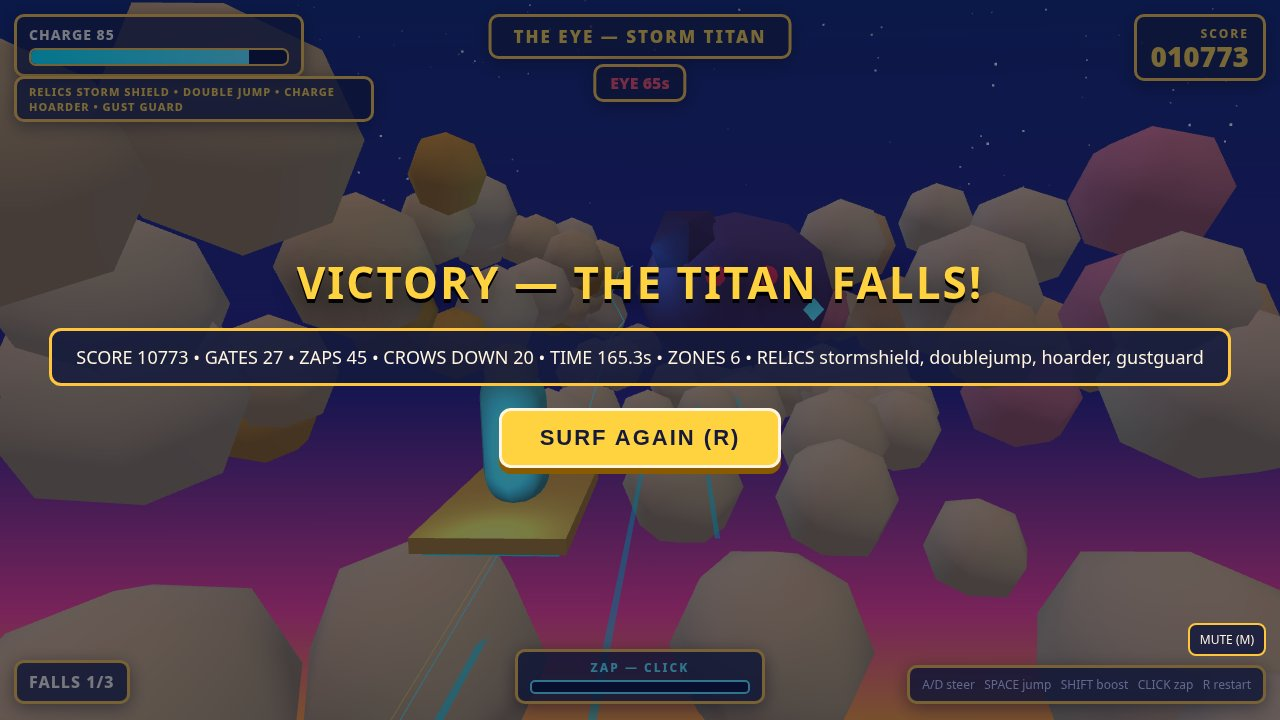
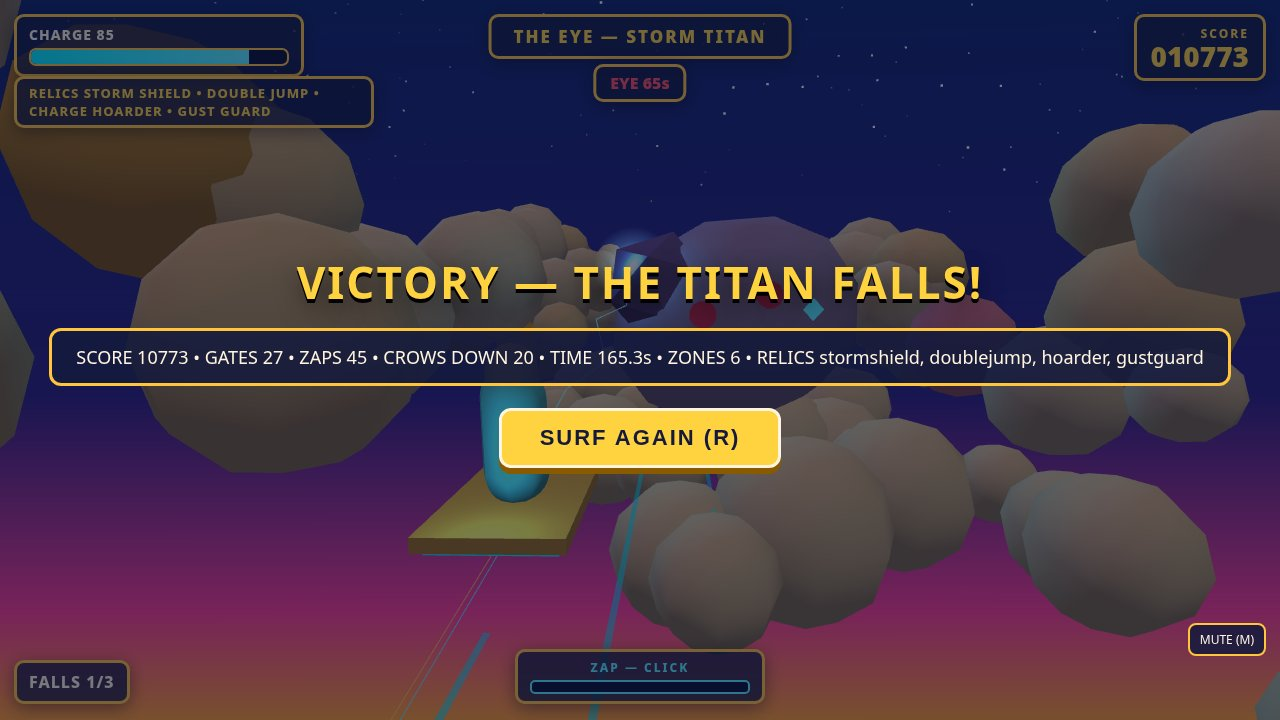
THUNDERHEAD RUN fix round 2: cloud palette, whale fluke, defeated Titan, title scrim, boss legibility, zap bloom (GLM + Superbot + Qwen)
- Cover whale un-clipped (x -2.4); boss sweep telegraph moved to x=3.5, off the relics strip
- Title controls line uses LEFT/RIGHT (no arrow glyphs); title scrim 0.72 -> 0.40, rules panel stays opaque
- Clouds bulk white/cream, gold/pink accents only, segments (8,6); whale fluke forked in the screen plane
- Victory Titan: brightened + scaled 1.3x, dull-red eyes, tilt 0.3, sunk, slow bob
- Sweep telegraph floor 0.34-0.50 + bright edge; relic strip 13px; controls-hint hidden in The Eye
- Zap impact flash sprite + brighter arc; contrast pass (ambient 0.55, key 1.0, cyan rim light)
- sim.js untouched (md5 e9b2e1fc...); dossier e1965e79..., 632,582 B, byte-identical twice

diff --git a/game/src/render.js b/game/src/render.js
@@ -15,7 +15,7 @@ function emissive(color, intensity) {
   return new THREE.MeshBasicMaterial({ color });
 }
 
-// 3-stop sunset gradient for the sky: sapphire zenith -> indigo ->
+// 4-stop sunset gradient for the sky: sapphire zenith -> indigo ->
 // magenta/amber horizon. A canvas texture fills the screen as the background.
 function skyGradientTexture() {
   const cv = document.createElement('canvas');
@@ -45,8 +45,9 @@ export function createRenderer(canvas) {
   camera.position.set(0, 3.4, 7.5);
 
   // Lights: soft warm key from above + cool fill + warm pink fill so the
-  // clouds read as sunset clouds, not faceted rock.
-  const key = new THREE.DirectionalLight(0xfff2cc, 0.9);
+  // clouds read as sunset clouds, not faceted rock. Ambient is kept low
+  // (0.55) so the key models the puffs instead of washing them flat.
+  const key = new THREE.DirectionalLight(0xfff2cc, 1.0);
   key.position.set(4, 16, 8);
   scene.add(key);
   const fill = new THREE.DirectionalLight(0x5ef2ff, 0.5);
@@ -55,7 +56,11 @@ export function createRenderer(canvas) {
   const pinkFill = new THREE.DirectionalLight(0xff9ecf, 0.6);
   pinkFill.position.set(-6, 8, -2);
   scene.add(pinkFill);
-  scene.add(new THREE.AmbientLight(0xffe9c8, 0.85));
+  // Cyan rim/back light: edges the whale, rider and Titan against the sky.
+  const rim = new THREE.DirectionalLight(0x00e5ff, 0.7);
+  rim.position.set(-6, 8, -14);
+  scene.add(rim);
+  scene.add(new THREE.AmbientLight(0xffe9c8, 0.55));
   const boardLight = new THREE.PointLight(0x9fefff, 5, 12);
   boardLight.position.set(0, 1.5, 1);
   scene.add(boardLight);
@@ -72,7 +77,7 @@ export function createRenderer(canvas) {
   // Canyon walls: instanced smooth cloud puffs on both sides, scrolling.
   // (Spheres, not faceted polyhedra: a detail-0 icosahedron has one normal
   // per face, so even smooth shading reads as chunked rock.)
-  const blobGeo = new THREE.SphereGeometry(1, 6, 4);
+  const blobGeo = new THREE.SphereGeometry(1, 8, 6);
   const blobMat = lambert(0xfff5e0);
   const blobCount = 70;
   const blobs = new THREE.InstancedMesh(blobGeo, blobMat, blobCount);
@@ -80,7 +85,9 @@ export function createRenderer(canvas) {
   scene.add(blobs);
   const blobData = [];
   const tint = new THREE.Color();
-  const palette = [0xfff5e0, 0xfff5e0, 0xffe9b8, 0xffd9a0, 0xffc53d, 0xff9ecf];
+  // Cloud palette: the bulk is white/cream so the canyon reads as cloud,
+  // not khaki rock — gold and pink appear as accents only (2 of 8).
+  const palette = [0xfff5e0, 0xfff5e0, 0xfff5e0, 0xfff8ec, 0xffe9b8, 0xffe9b8, 0xffc53d, 0xff9ecf];
   for (let i = 0; i < blobCount; i++) {
     const side = i % 2 === 0 ? -1 : 1;
     blobData.push({
@@ -152,11 +159,22 @@ export function createRenderer(canvas) {
   scene.add(trailGold);
 
   // Lightning sweep warning plane + strike bolt.
-  const warnMat = new THREE.MeshBasicMaterial({ color: 0xff4d5e, transparent: true, opacity: 0.25, side: THREE.DoubleSide });
+  const warnMat = new THREE.MeshBasicMaterial({ color: 0xff4d5e, transparent: true, opacity: 0.42, side: THREE.DoubleSide });
   const warn = new THREE.Mesh(new THREE.PlaneGeometry(3, 14), warnMat);
   warn.position.set(0, 4, -10);
   warn.visible = false;
   scene.add(warn);
+  // Bright edge around the telegraph so it reads on the magenta sky even
+  // at the dim end of its pulse.
+  const warnEdgePts = [
+    new THREE.Vector3(-1.5, -7, 0), new THREE.Vector3(1.5, -7, 0),
+    new THREE.Vector3(1.5, 7, 0), new THREE.Vector3(-1.5, 7, 0),
+  ];
+  const warnEdgeGeo = new THREE.BufferGeometry().setFromPoints(warnEdgePts);
+  const warnEdge = new THREE.LineLoop(warnEdgeGeo, new THREE.LineBasicMaterial({ color: 0xff8a96 }));
+  warnEdge.position.set(0, 4, -9.95);
+  warnEdge.visible = false;
+  scene.add(warnEdge);
   const boltGeo = new THREE.BufferGeometry();
   boltGeo.setAttribute('position', new THREE.BufferAttribute(new Float32Array(9 * 3), 3));
   const bolt = new THREE.Line(boltGeo, new THREE.LineBasicMaterial({ color: 0xffffff }));
@@ -167,17 +185,35 @@ export function createRenderer(canvas) {
   // Zap arc: jagged line from the board to the zap point.
   const zapGeo = new THREE.BufferGeometry();
   zapGeo.setAttribute('position', new THREE.BufferAttribute(new Float32Array(7 * 3), 3));
-  const zapLine = new THREE.Line(zapGeo, new THREE.LineBasicMaterial({ color: 0x5ef2ff }));
+  const zapLine = new THREE.Line(zapGeo, new THREE.LineBasicMaterial({ color: 0x8ef4ff }));
   zapLine.visible = false;
   zapLine.frustumCulled = false;
   scene.add(zapLine);
   const zapLight = new THREE.PointLight(0x5ef2ff, 0, 25);
   scene.add(zapLight);
+  // Flash sprite at the zap impact point: a single thin line is easy to
+  // miss, so the strike blooms where it lands.
+  const flashCv = document.createElement('canvas');
+  flashCv.width = 128;
+  flashCv.height = 128;
+  const fg = flashCv.getContext('2d');
+  const fgr = fg.createRadialGradient(64, 64, 2, 64, 64, 64);
+  fgr.addColorStop(0, 'rgba(255,255,255,1)');
+  fgr.addColorStop(0.25, 'rgba(160,240,255,0.9)');
+  fgr.addColorStop(0.6, 'rgba(94,242,255,0.35)');
+  fgr.addColorStop(1, 'rgba(94,242,255,0)');
+  fg.fillStyle = fgr;
+  fg.fillRect(0, 0, 128, 128);
+  const flashTex = new THREE.CanvasTexture(flashCv);
+  const zapFlash = new THREE.Sprite(new THREE.SpriteMaterial({ map: flashTex, color: 0xffffff, transparent: true, blending: THREE.AdditiveBlending, depthWrite: false }));
+  zapFlash.scale.setScalar(4);
+  zapFlash.visible = false;
+  scene.add(zapFlash);
 
   const world = {
     renderer, scene, camera, blobs, blobData, floorBlobs, floorData, rails,
     player, board, rider, trail, trailGeo, trailPoints, trailGold, trailGoldGeo,
-    warn, bolt, zapLine, zapLight, boardLight, dummy, tint,
+    warn, warnEdge, bolt, zapLine, zapLight, zapFlash, boardLight, dummy, tint,
     meshes: new Map(), titan: null, time: 0, shake: 0,
   };
   return world;
@@ -238,6 +274,18 @@ function whaleMesh() {
   tail.rotation.z = -Math.PI / 2;
   tail.position.x = 2.8;
   g.add(tail);
+  // Fluke: two flattened lobes splayed up/down at the tail tip, so the
+  // tail reads as a forked fin from the chase camera (before: a bare cone,
+  // and from behind-top the whale was just a pale capsule). The lobes
+  // spread in the screen plane — a sideways (z) splay is foreshortened
+  // to nothing from this camera.
+  for (const s of [-1, 1]) {
+    const fluke = new THREE.Mesh(new THREE.ConeGeometry(0.5, 1.2, 4), lambert(0xfff5e0));
+    fluke.rotation.z = -Math.PI / 2 + s * 0.7; // apex points back, tilted up/down
+    fluke.scale.set(1, 1, 0.3); // flattened toward the camera
+    fluke.position.set(3.6, s * 0.45, 0);
+    g.add(fluke);
+  }
   const eye = new THREE.Mesh(new THREE.SphereGeometry(0.12, 8, 6), new THREE.MeshBasicMaterial({ color: 0x0a1030 }));
   eye.position.set(-1.6, 0.3, 0.55);
   g.add(eye);
@@ -272,6 +320,9 @@ function titanMesh() {
   const eyeR = eyeL.clone();
   eyeR.position.x = 1.2;
   g.add(eyeL, eyeR);
+  g.userData.main = main;
+  g.userData.brow = brow;
+  g.userData.eyes = [eyeL, eyeR];
   g.userData.weak = [];
   for (let i = 0; i < 3; i++) {
     const w = new THREE.Mesh(new THREE.SphereGeometry(1.0, 12, 10), new THREE.MeshBasicMaterial({ color: 0xffd23f }));
@@ -390,8 +441,24 @@ export function renderFrame(world, state, dt, camPitch) {
       world.scene.add(world.titan);
     }
     const b = state.boss;
-    world.titan.position.y = 3.5 + Math.sin(t * 0.8) * 0.5;
-    world.titan.rotation.y = Math.sin(t * 0.25) * 0.3;
+    if (state.won) {
+      // Defeated Titan: slumped, sunk, slow — it has fallen, not merely
+      // stopped. Body brightened and scaled up so the silhouette reads
+      // around the end overlay (it sits dead-center behind the title);
+      // eyes dimmed to a dull red (still glowing, but going out).
+      world.titan.position.y = 2.0 + Math.sin(t * 0.3) * 0.15;
+      world.titan.rotation.y = Math.sin(t * 0.1) * 0.1;
+      world.titan.rotation.z = 0.3;
+      world.titan.scale.setScalar(1.3);
+      world.titan.userData.main.material.color.setHex(0xb39ddb);
+      world.titan.userData.brow.material.color.setHex(0x7a5fb0);
+      for (const e of world.titan.userData.eyes) e.material.color.setHex(0xb02030);
+    } else {
+      world.titan.position.y = 3.5 + Math.sin(t * 0.8) * 0.5;
+      world.titan.rotation.y = Math.sin(t * 0.25) * 0.3;
+      world.titan.rotation.z = 0;
+      world.titan.scale.setScalar(1);
+    }
     b.weak.forEach((w, i) => {
       const wm = world.titan.userData.weak[i];
       if (w.dead) { wm.visible = false; return; }
@@ -404,10 +471,13 @@ export function renderFrame(world, state, dt, camPitch) {
     if (b.sweepState === 'warn') {
       world.warn.visible = true;
       world.warn.position.set(b.sweepX, 4, -10);
-      world.warn.material.opacity = 0.2 + Math.sin(t * 20) * 0.12;
+      world.warn.material.opacity = 0.42 + Math.sin(t * 20) * 0.08;
+      world.warnEdge.visible = true;
+      world.warnEdge.position.set(b.sweepX, 4, -9.95);
       world.bolt.visible = false;
     } else if (b.sweepState === 'strike') {
       world.warn.visible = false;
+      world.warnEdge.visible = false;
       world.bolt.visible = true;
       const bp = world.bolt.geometry.attributes.position.array;
       let bx = b.sweepX;
@@ -422,12 +492,14 @@ export function renderFrame(world, state, dt, camPitch) {
       world.bolt.geometry.attributes.position.needsUpdate = true;
     } else {
       world.warn.visible = false;
+      world.warnEdge.visible = false;
       world.bolt.visible = false;
     }
   } else if (world.titan) {
     world.scene.remove(world.titan);
     world.titan = null;
     world.warn.visible = false;
+    world.warnEdge.visible = false;
     world.bolt.visible = false;
   }
 
@@ -447,8 +519,12 @@ export function renderFrame(world, state, dt, camPitch) {
     world.zapLine.geometry.attributes.position.needsUpdate = true;
     world.zapLight.position.set(zx, zy, zz + 4);
     world.zapLight.intensity = 30;
+    world.zapFlash.visible = true;
+    world.zapFlash.position.set(zx, zy, zz);
+    world.zapFlash.scale.setScalar(3.5 + Math.sin(t * 30) * 0.8);
   } else {
     world.zapLine.visible = false;
+    world.zapFlash.visible = false;
     world.zapLight.intensity = 0;
   }
 

diff --git a/game/index.html b/game/index.html
@@ -26,11 +26,11 @@
   #falls-text { position: absolute; bottom: 16px; left: 14px; padding: 8px 12px; font-weight: 800; letter-spacing: 1px; }
   #controls-hint { position: absolute; bottom: 16px; right: 14px; padding: 8px 12px; font-size: 12px; color: #c9d2ff; }
   #event-text { position: absolute; top: 110px; left: 50%; transform: translateX(-50%); font-weight: 900; font-size: 22px; color: #ffd23f; text-shadow: 0 2px 8px #000; transition: opacity 0.3s; white-space: nowrap; }
-  #relic-strip { position: absolute; top: 76px; left: 14px; max-width: 330px; padding: 5px 12px; font-size: 11px; font-weight: 800; letter-spacing: 1px; color: #ffd23f; display: none; }
+  #relic-strip { position: absolute; top: 76px; left: 14px; max-width: 330px; padding: 5px 12px; font-size: 13px; font-weight: 800; letter-spacing: 1px; color: #ffd23f; display: none; }
   #cover-wordmark { position: fixed; top: 64px; left: 50%; transform: translateX(-50%); text-align: center; display: none; z-index: 4; pointer-events: none; }
   #cover-wordmark .wm-title { font-size: 48px; font-weight: 900; letter-spacing: 4px; color: #ffd23f; text-shadow: 0 3px 0 #141a3d, 0 0 18px rgba(0,0,0,0.85); white-space: nowrap; }
   #cover-wordmark .wm-sub { font-size: 18px; font-weight: 800; letter-spacing: 4px; color: #5ef2ff; text-shadow: 0 2px 6px #000; margin-top: 2px; }
-  .overlay { position: fixed; inset: 0; display: flex; flex-direction: column; align-items: center; justify-content: center; background: rgba(10, 16, 48, 0.72); color: #fff5e0; text-align: center; z-index: 5; }
+  .overlay { position: fixed; inset: 0; display: flex; flex-direction: column; align-items: center; justify-content: center; background: rgba(10, 16, 48, 0.40); color: #fff5e0; text-align: center; z-index: 5; }
   .overlay h1 { font-size: 64px; margin: 0; color: #ffd23f; letter-spacing: 4px; text-shadow: 0 4px 0 #8a5a00, 0 8px 24px rgba(0,0,0,0.6); }
   .overlay h2 { font-size: 22px; margin: 6px 0 0; color: #5ef2ff; letter-spacing: 3px; }
   .overlay .rules { margin: 22px 0 6px; font-size: 17px; line-height: 1.7; background: rgba(20,26,61,0.85); border: 3px solid #ffc53d; border-radius: 12px; padding: 14px 26px; }
@@ -82,7 +82,7 @@
     Steer through emerald gates to charge. Zap storm-crows. Dodge the sky-whales.<br>
     Every 20s the canyon forks: left is fast, right is safe. Draft a relic after each zone.
   </div>
-  <div class="controls">A / D or &larr; / &rarr; steer &nbsp;&middot;&nbsp; SPACE jump &nbsp;&middot;&nbsp; SHIFT boost &nbsp;&middot;&nbsp; CLICK zap &nbsp;&middot;&nbsp; Mouse aims</div>
+  <div class="controls">A / D or LEFT / RIGHT steer &nbsp;&middot;&nbsp; SPACE jump &nbsp;&middot;&nbsp; SHIFT boost &nbsp;&middot;&nbsp; CLICK zap &nbsp;&middot;&nbsp; Mouse aims</div>
   <button id="start-btn" class="big-btn">START SURFING</button>
 </div>
 

diff --git a/game/src/main.js b/game/src/main.js
@@ -26,6 +26,7 @@ const fallsText = el('falls-text');
 const relicStrip = el('relic-strip');
 const timerText = el('timer-text');
 const eventText = el('event-text');
+const controlsHint = el('controls-hint');
 const statusEl = el('status');
 const titleEl = el('title');
 const relicEl = el('relic');
@@ -65,10 +66,14 @@ function updateHud() {
   if (state.screen === 'boss' && state.boss) {
     timerText.textContent = 'EYE ' + Math.ceil(state.boss.timer) + 's';
     timerText.style.display = 'block';
+    // The Eye is a boss fight: the steering hint is noise here.
+    controlsHint.style.display = 'none';
   } else if (state.zoneIdx === 5) {
     timerText.style.display = 'none';
+    controlsHint.style.display = 'block';
   } else {
     timerText.style.display = 'none';
+    controlsHint.style.display = 'block';
   }
   if (state.lastEvent && eventTimer > 0) {
     eventText.textContent = state.lastEvent;

diff --git a/game/src/shots.js b/game/src/shots.js
@@ -78,7 +78,7 @@ export function stageCover() {
     { kind: 'gate', x: 2.5, y: 0, z: -55, hp: 1, mult: 1 },
     { kind: 'crow', x: 3.5, y: 2.4, z: -10, hp: 1, shielded: false },
     { kind: 'shielded', x: -3.4, y: 3.1, z: -32, hp: 2, shielded: true },
-    { kind: 'whale', x: -3.2, y: 3.4, z: -18, hp: 99, vx: 0.8 },
+    { kind: 'whale', x: -2.4, y: 3.4, z: -18, hp: 99, vx: 0.8 },
     { kind: 'orb', x: 0.6, y: 1.2, z: -30, hp: 1 },
     { kind: 'orb', x: -2.2, y: 3.2, z: -38, hp: 1 },
   ];
@@ -108,7 +108,7 @@ export function stageBoss() {
     }
     if (state.boss.sweepState === 'idle') {
       state.boss.sweepState = 'warn';
-      state.boss.sweepX = state.x;
+      state.boss.sweepX = 3.5;
     }
     state.entities = [
       { kind: 'crow', x: 4.2, y: 2.6, z: -16, hp: 1, shielded: false },
